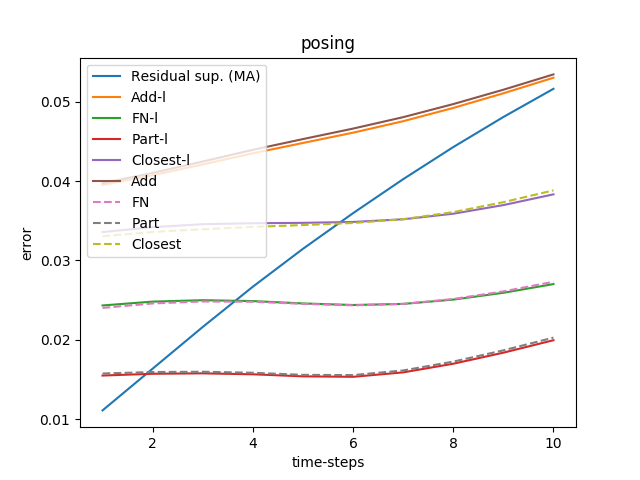
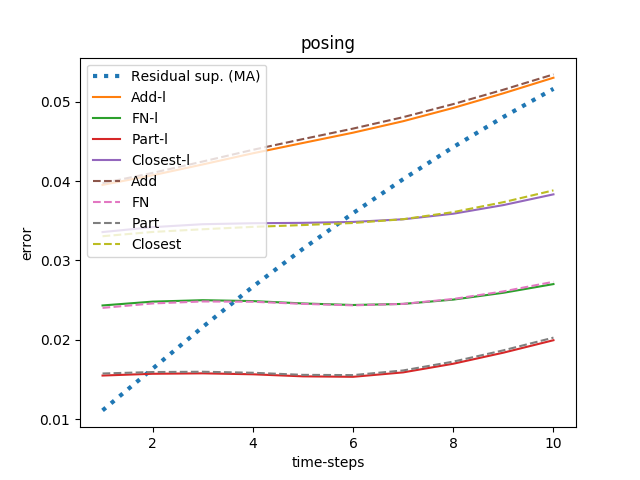
g

diff --git a/RNN/utils/metric_baselines.py b/RNN/utils/metric_baselines.py
@@ -140,8 +140,8 @@ def plot_results_npy(from_path, npy_files_dirs, method_names):
 					score_[j] = metrics.__pose_seq_error(pd_b, gt, cumulative=True)
 
 			if i == 0:
-				plt.plot(range(1,t+1), np.mean(score_, axis=0), label='Residual sup. (MA)')
-			if i > len(method_names)/2:
+				plt.plot(range(1,t+1), np.mean(score_, axis=0), label='Residual sup. (MA)', linestyle=':',linewidth=3)
+			if i > len(method_names)/2-1:
 				plt.plot(range(1,t+1), np.mean(score, axis=0), label=method_names[i], linestyle='--')
 			else:
 				plt.plot(range(1,t+1), np.mean(score, axis=0), label=method_names[i])
